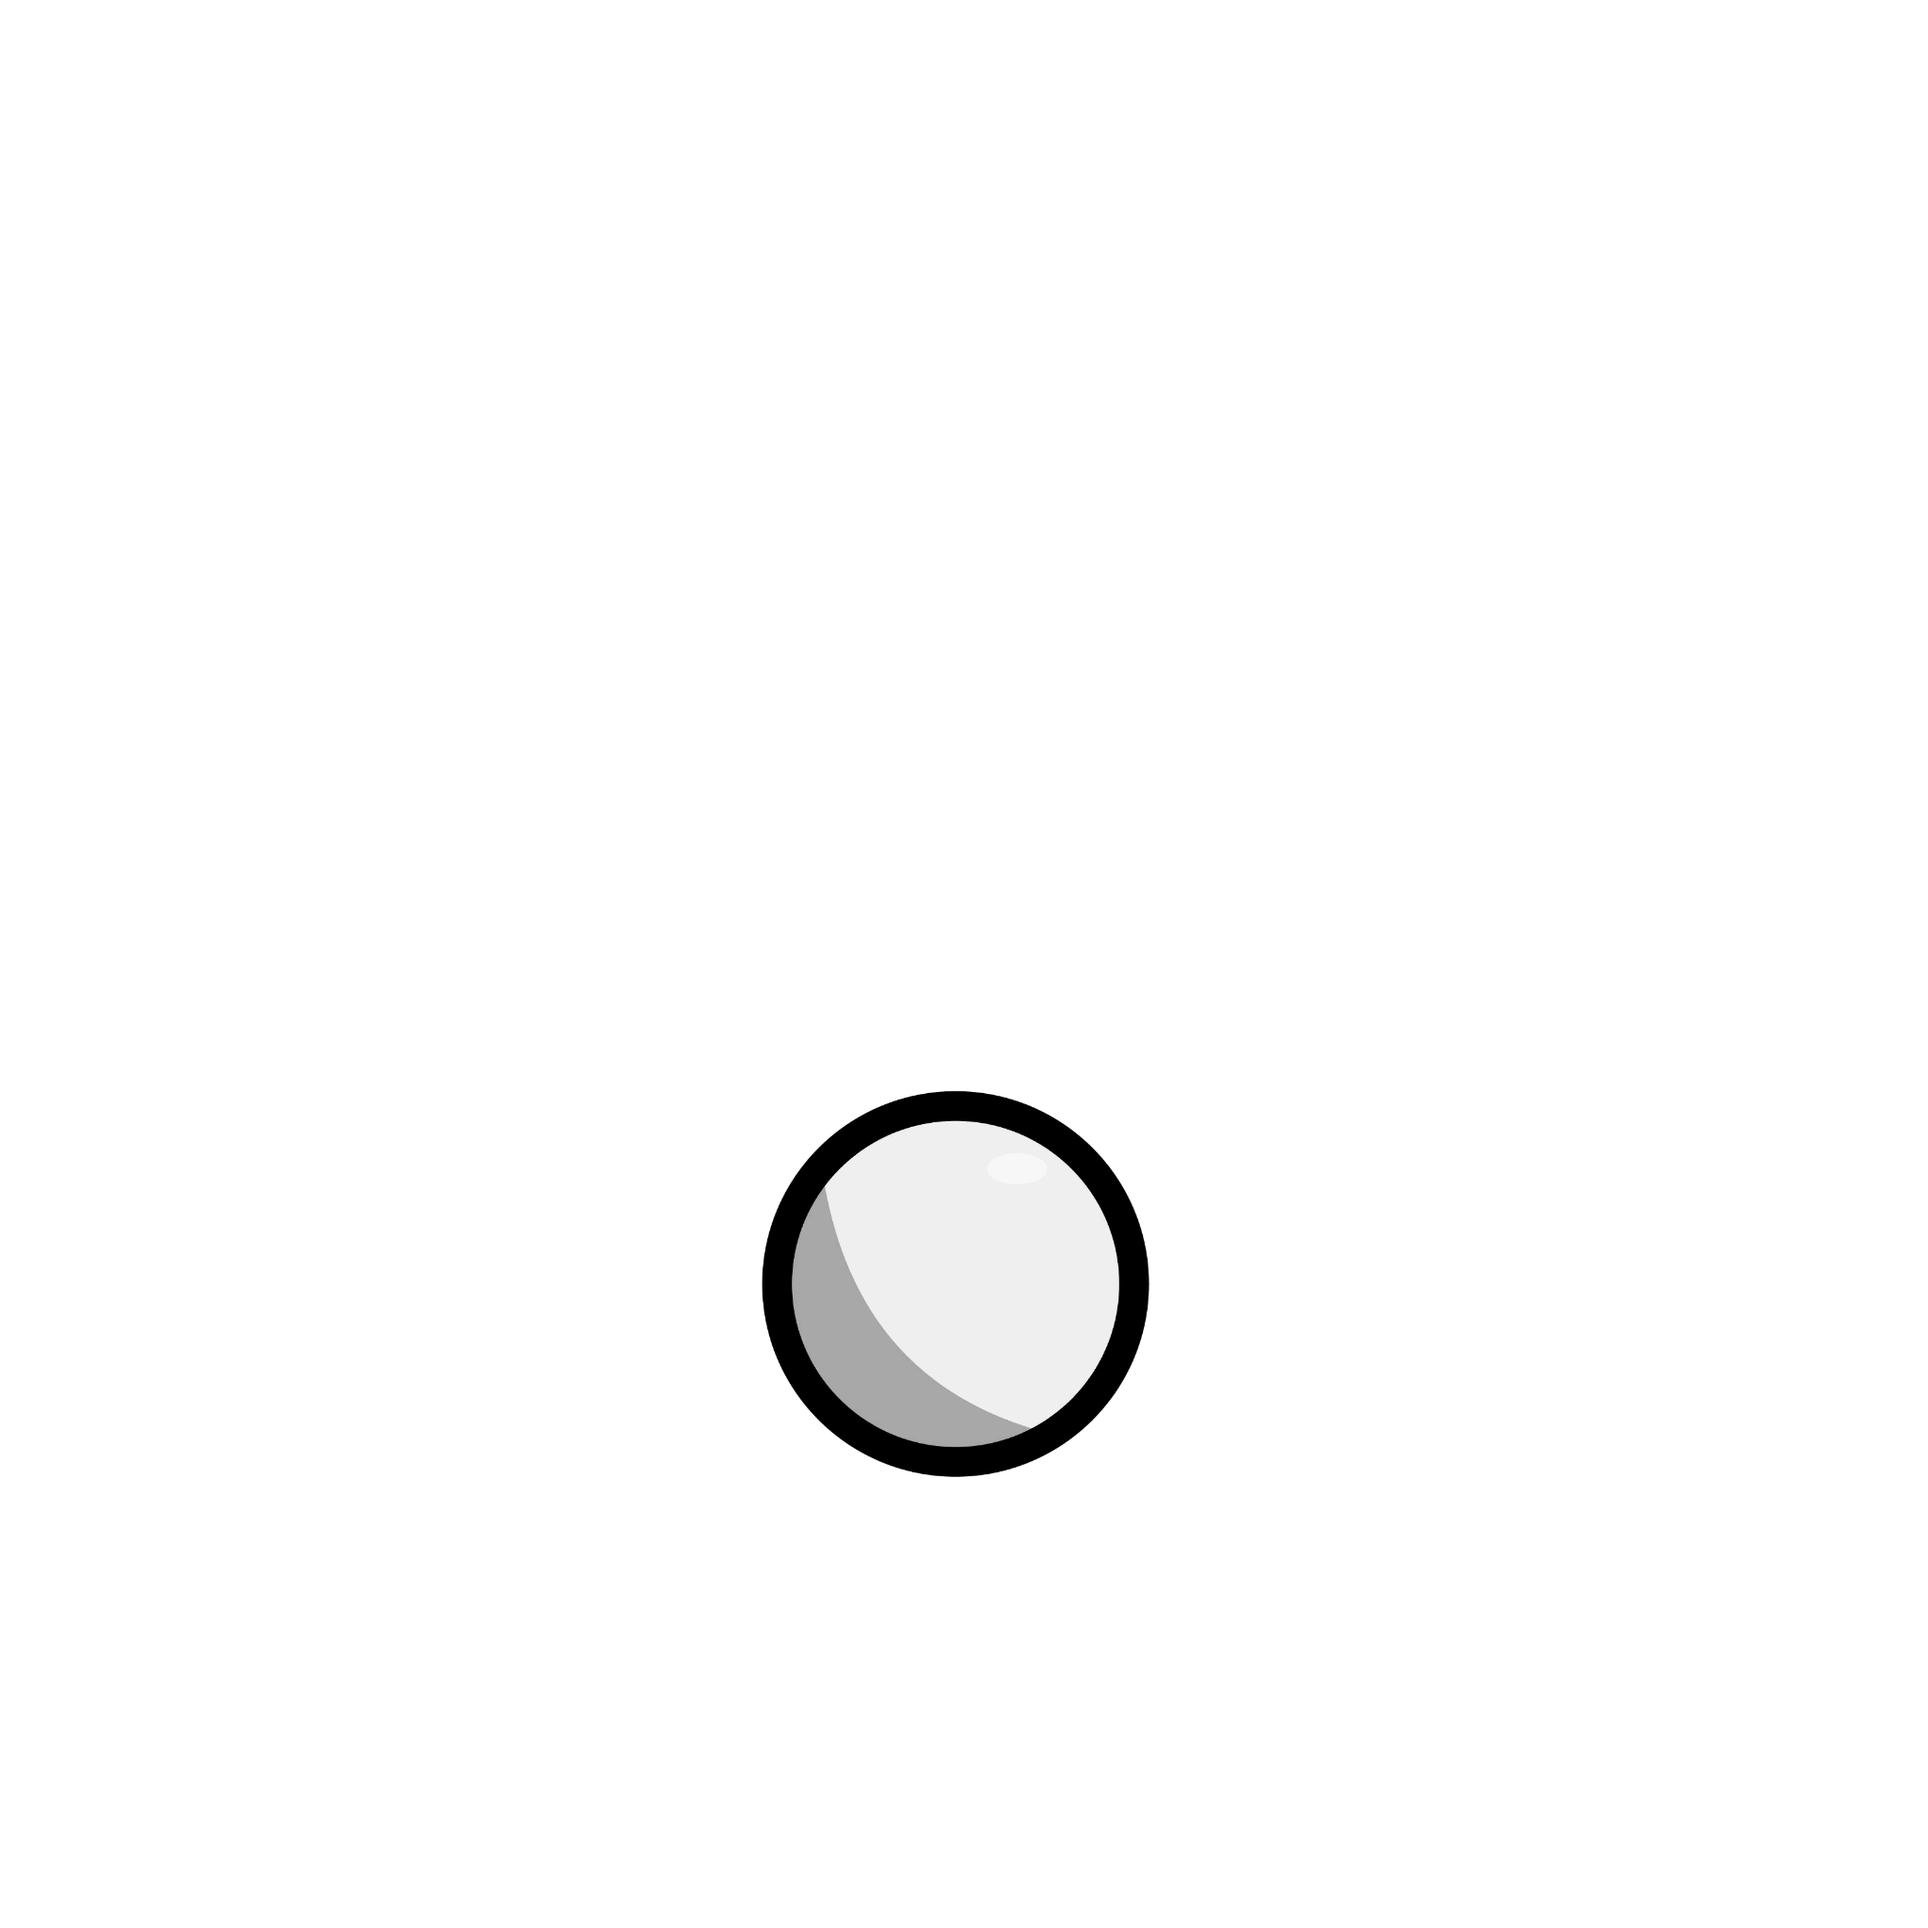
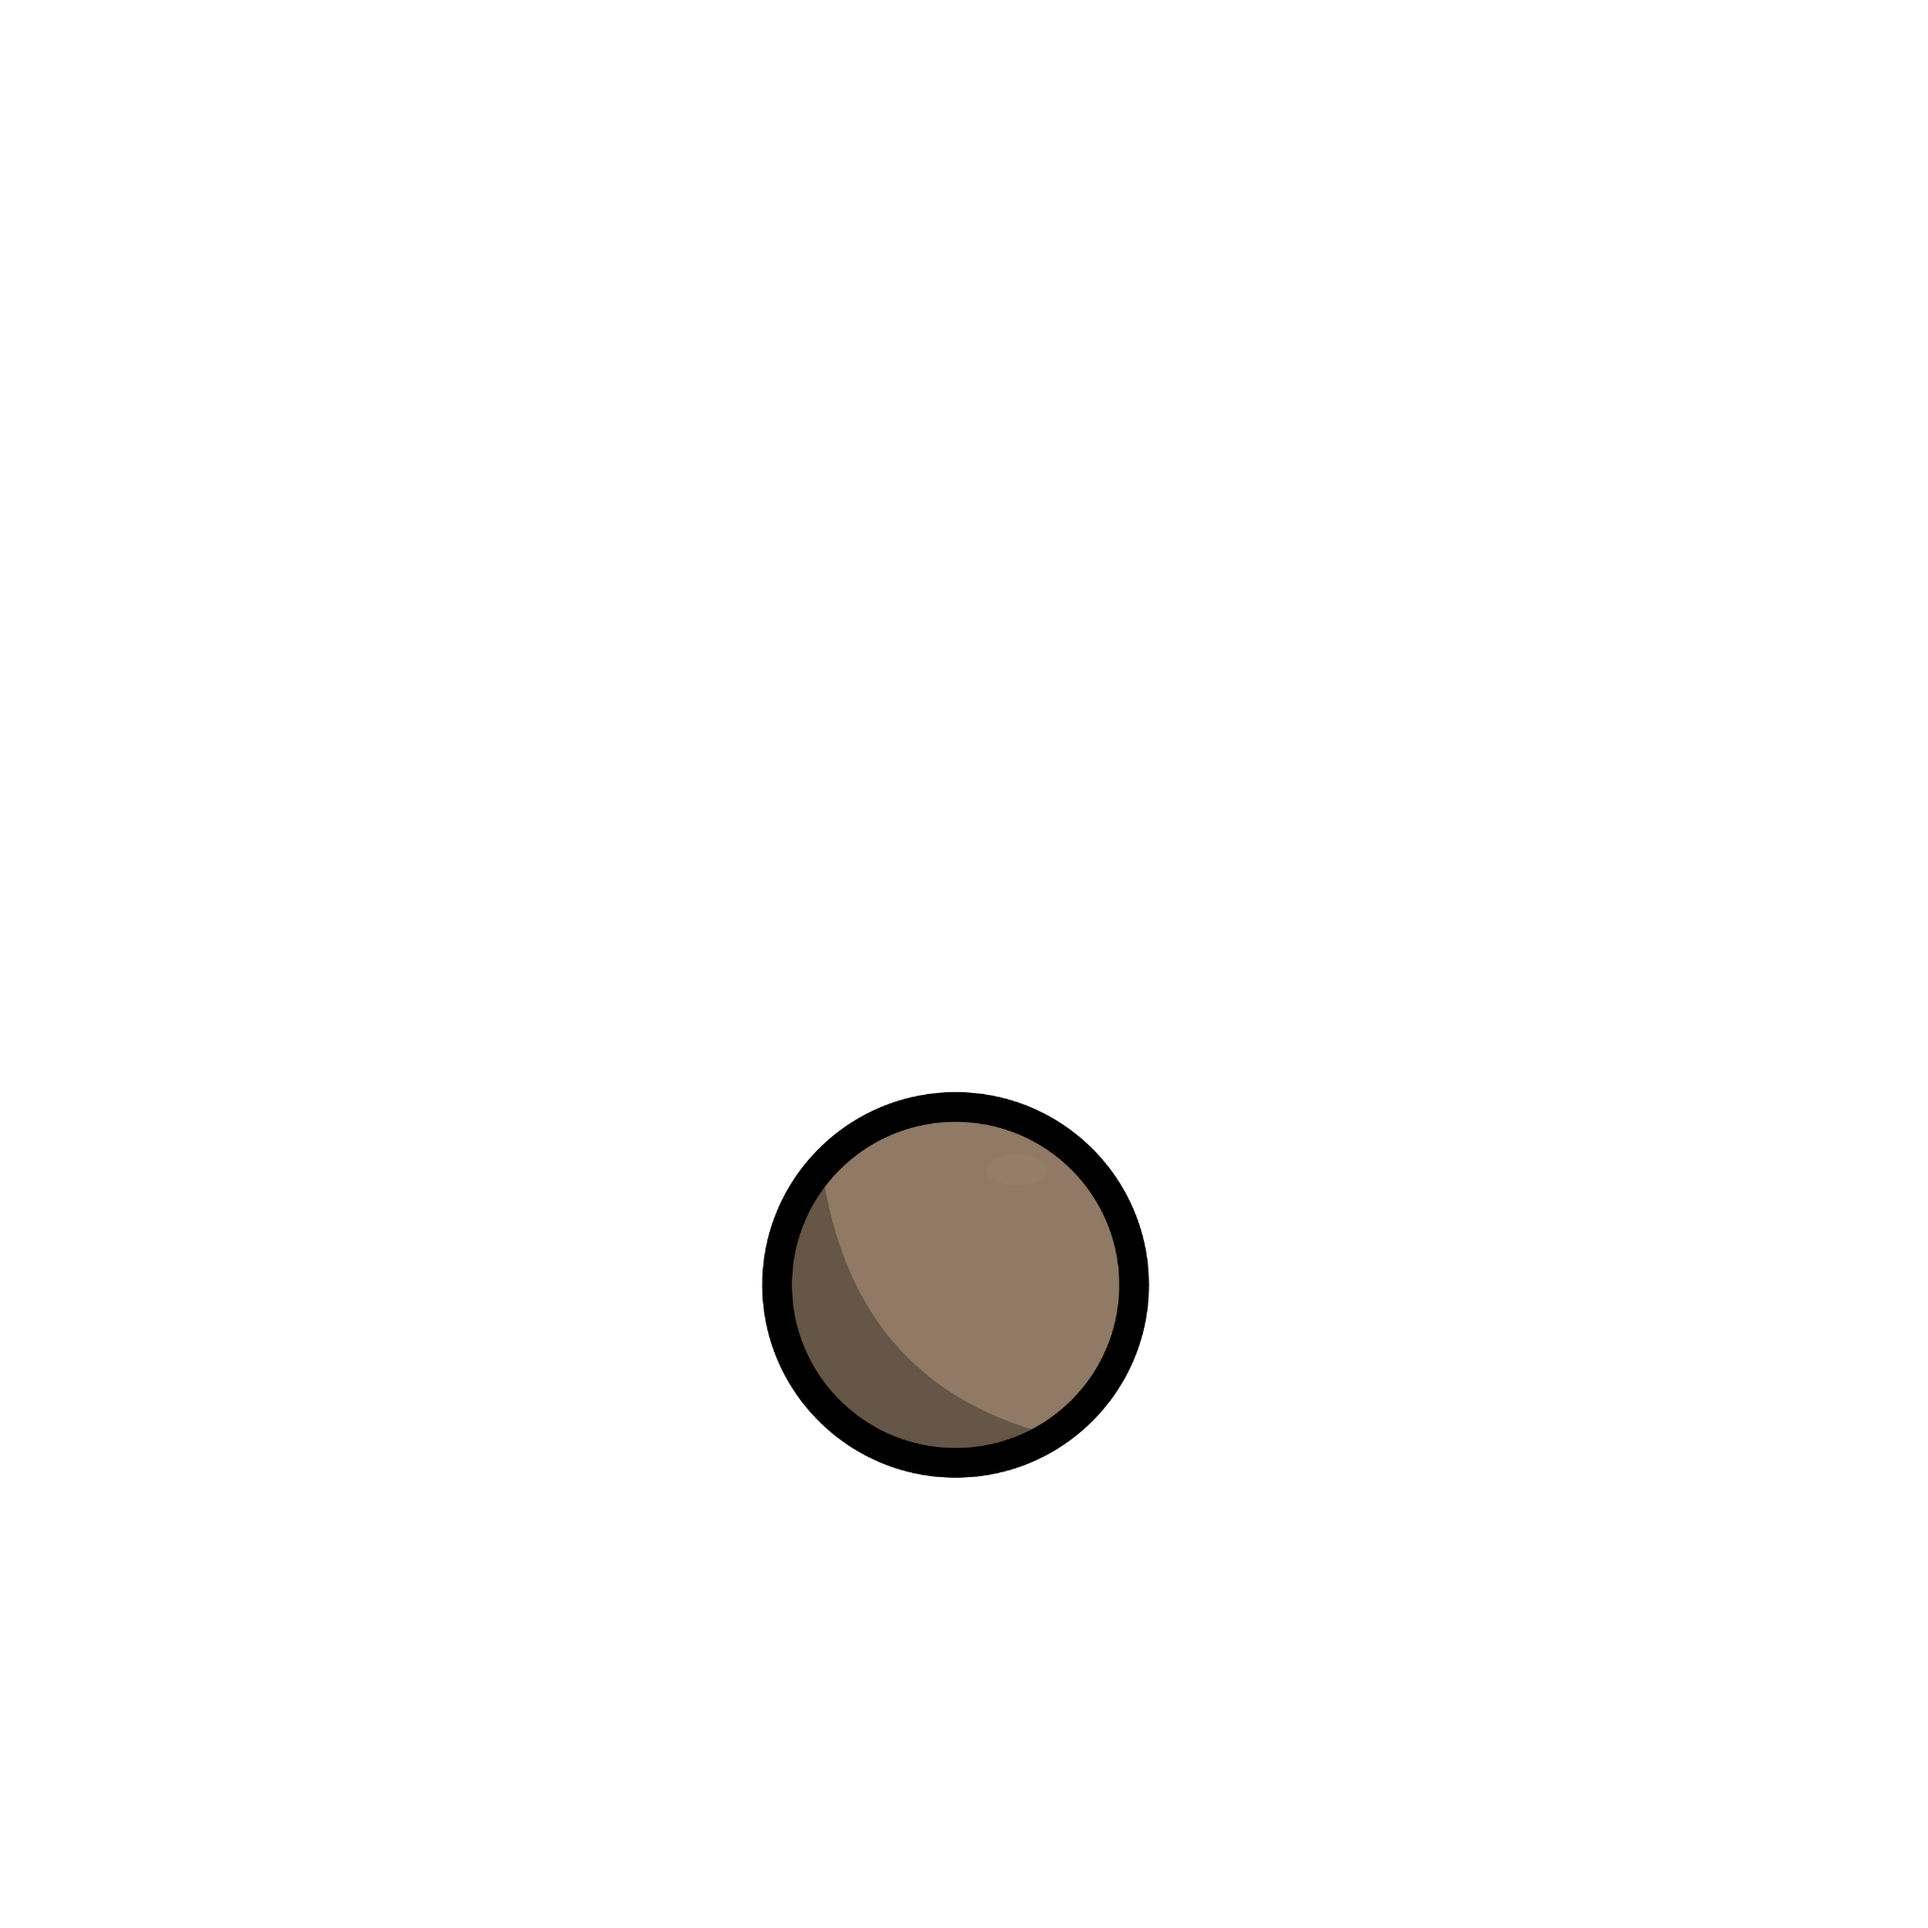
animations mostly done

Changed region(s): [[0.4062, 0.5625, 0.5938, 0.75]]

diff --git a/src/pixels.c b/src/pixels.c
@@ -6,7 +6,7 @@
 /*   By: aklein <aklein@student.hive.fi>            +#+  +:+       +#+        */
 /*                                                +#+#+#+#+#+   +#+           */
 /*   Created: 2024/02/13 00:16:36 by aklein            #+#    #+#             */
-/*   Updated: 2024/02/13 21:13:18 by aklein           ###   ########.fr       */
+/*   Updated: 2024/02/13 22:54:53 by aklein           ###   ########.fr       */
 /*                                                                            */
 /* ************************************************************************** */
 
@@ -70,43 +70,27 @@ void	get_mirrored(mlx_image_t *dst, mlx_image_t *src)
 	}
 }
 
-//
-t_list	*get_recolor_list(void)
+void	color_from_src(mlx_image_t *dst, mlx_image_t *src)
 {
-	t_recolor	*recolor;
-	t_list		*recolors;
+	uint32_t	i;
+	uint32_t	j;
+	uint32_t	color;
+	uint32_t	dest_color;
 
-	recolors = NULL;
-	recolor = ft_calloc(1, sizeof(t_recolor));
-	recolor->remove = 0xEFEEEFFF;
-	recolor->replace = 0x5C62E6FF;
-	ft_lstadd_back(&recolors, ft_lstnew(recolor));
-	recolor = ft_calloc(1, sizeof(t_recolor));
-	recolor->remove = 0xA7A8A7FF;
-	recolor->replace = 0x4045A0FF;
-	ft_lstadd_back(&recolors, ft_lstnew(recolor));
-	recolor = ft_calloc(1, sizeof(t_recolor));
-	recolor->remove = 0x00FF00FF;
-	recolor->replace = 0x00000000;
-	ft_lstadd_back(&recolors, ft_lstnew(recolor));
-	return (recolors);
-}
-
-
-uint32_t	check_recolor(uint32_t color)
-{
-	t_recolor	*recolor;
-	t_list		*swaps;
-
-	swaps = get_recolor_list();
-	while (swaps)
+	i = 0;
+	while (i < src->width)
 	{
-		recolor = (t_recolor *)swaps->content;
-		if (color == recolor->remove)
-			return (recolor->replace);
-		swaps = swaps->next;
+		j = 0;
+		while (j < src->height)
+		{
+			color = get_pixel_color(src, i, j);
+			dest_color = get_pixel_color(dst, i, j);
+			if (valid_pixel_spot(dst, i, j) && not_transparent(dest_color))
+				mlx_put_pixel(dst, i, j, color);
+			j++;
+		}
+		i++;
 	}
-	return (color);
 }
 
 void	img_to_img(mlx_image_t *dst, mlx_image_t *src, int x, int y)
@@ -122,7 +106,6 @@ void	img_to_img(mlx_image_t *dst, mlx_image_t *src, int x, int y)
 		while (j < src->height)
 		{
 			color = get_pixel_color(src, i, j);
-			color = check_recolor(color);
 			if (valid_pixel_spot(dst, x + i, y + j) && not_transparent(color))
 				mlx_put_pixel(dst, x + i, y + j, color);
 			j++;

diff --git a/src/anim_load.c b/src/anim_load.c
@@ -6,7 +6,7 @@
 /*   By: aklein <aklein@student.hive.fi>            +#+  +:+       +#+        */
 /*                                                +#+#+#+#+#+   +#+           */
 /*   Created: 2024/02/12 23:43:05 by aklein            #+#    #+#             */
-/*   Updated: 2024/02/13 19:51:07 by aklein           ###   ########.fr       */
+/*   Updated: 2024/02/13 22:57:12 by aklein           ###   ########.fr       */
 /*                                                                            */
 /* ************************************************************************** */
 
@@ -123,6 +123,24 @@ void	add_to_anim_frames(t_list *dest, t_list *src)
 		src = src->next;
 	}
 }
+//void (*f)(void *)
+void	color_anim(t_list *dest, t_list *src)
+{
+	mlx_image_t	*destination;
+	mlx_image_t	*source;
+
+	if (ft_lstsize(dest) != ft_lstsize(src))
+		return ;
+	while (dest)
+	{
+		destination = (mlx_image_t *)dest->content;
+		source = (mlx_image_t *)src->content;
+		color_from_src(destination, source);
+		dest = dest->next;
+		src = src->next;
+	}
+	
+}
 
 void	load_char_up(t_game *game)
 {
@@ -136,8 +154,9 @@ void	load_char_up(t_game *game)
 	game->char_up = load_animation(game, walk);
 	game->head = load_animation(game, head);
 	game->hair = load_animation(game, hair);
+	color_anim(game->hair->frames, game->char_up->frames);
 	add_to_anim_frames(game->char_up->frames, game->head->frames);
-	add_to_anim_frames(game->char_up->frames, game->hair->frames);
+	add_to_anim_frames(game->char_up->frames, game->hair->frames); 
 }
 
 void	get_animations(t_game *game)
@@ -146,7 +165,7 @@ void	get_animations(t_game *game)
 	t_sprite	char_walk;
 	t_sprite	char_roll;
 
-	char_idle = new_sprite("./assets/full/idle_", 6, 120, 0);
+	char_idle = new_sprite("./assets/full/idle_", 6, 140, 0);
 	game->char_idle = load_animation(game, char_idle);
 	char_walk = new_sprite("./assets/full/walk_", 8, 100, 0);
 	game->char_right = load_animation(game, char_walk);

diff --git a/main.c b/main.c
@@ -6,17 +6,11 @@
 /*   By: aklein <aklein@student.hive.fi>            +#+  +:+       +#+        */
 /*                                                +#+#+#+#+#+   +#+           */
 /*   Created: 2024/02/12 21:19:08 by aklein            #+#    #+#             */
-/*   Updated: 2024/02/13 21:07:22 by aklein           ###   ########.fr       */
+/*   Updated: 2024/02/13 23:11:17 by aklein           ###   ########.fr       */
 /*                                                                            */
 /* ************************************************************************** */
 
 #include <so_long.h>
-
-#define WIDTH 1280
-#define HEIGHT 1024
-
-#define	CHAR_SIZE 512
-#define TILE_SIZE 384
 
 void	iterate_frames(t_list *lst, int x, int y)
 {
@@ -113,13 +107,19 @@ void	character_move(void *my_game)
 	if (game->char_roll_right->is_active)
 	{
 		animate_character(game->char_roll_right, game->mlx->delta_time);
-		move_right(game);
+		if (mlx_is_key_down(game->mlx, MLX_KEY_S))
+			move_down(game);
+		else
+			move_right(game);
 		return ;
 	}
 	if (game->char_roll_left->is_active)
 	{
 		animate_character(game->char_roll_left, game->mlx->delta_time);
-		move_left(game);
+		if (mlx_is_key_down(game->mlx, MLX_KEY_W))
+			move_up(game);
+		else
+			move_left(game);
 		return ;
 	}
 	else if (mlx_is_key_down(game->mlx, MLX_KEY_D))
@@ -140,11 +140,15 @@ void	character_move(void *my_game)
 	{
 		toggle_states(game, game->char_down);
 		move_down(game);
+		if (mlx_is_key_down(game->mlx, MLX_KEY_SPACE))
+			toggle_states(game, game->char_roll_right);
 	}
 	else if (mlx_is_key_down(game->mlx, MLX_KEY_W))
 	{
 		toggle_states(game, game->char_up);
-		//move_up(game);
+		move_up(game);
+		if (mlx_is_key_down(game->mlx, MLX_KEY_SPACE))
+			toggle_states(game, game->char_roll_left);
 	}
 	else
 		toggle_states(game, game->char_idle);

diff --git a/include/so_long.h b/include/so_long.h
@@ -6,7 +6,7 @@
 /*   By: aklein <aklein@student.hive.fi>            +#+  +:+       +#+        */
 /*                                                +#+#+#+#+#+   +#+           */
 /*   Created: 2024/02/11 18:38:13 by aklein            #+#    #+#             */
-/*   Updated: 2024/02/13 19:50:32 by aklein           ###   ########.fr       */
+/*   Updated: 2024/02/13 23:09:49 by aklein           ###   ########.fr       */
 /*                                                                            */
 /* ************************************************************************** */
 
@@ -19,7 +19,14 @@
 #include <stdio.h>
 #include <unistd.h>
 
-#define BPP sizeof(int32_t)
+# define WIDTH 1280
+# define HEIGHT 1024
+
+# define CHAR_SIZE 512
+# define TILE_SIZE 384
+
+# define BPP sizeof(int32_t)
+# define SPEED 10;
 
 typedef struct s_anim
 {
@@ -30,6 +37,7 @@ typedef struct s_anim
 	long int	frame_count;
 	bool		is_active;
 	bool		one_cycle;
+	bool		going_up;
 }				t_anim;
 
 typedef struct s_game
@@ -74,6 +82,7 @@ t_list	*ft_lstget(t_list *l, int n);
 int32_t	get_pixel_color(mlx_image_t *img, uint32_t x, uint32_t y);
 void	get_mirrored(mlx_image_t *dst, mlx_image_t *src);
 void	img_to_img(mlx_image_t *dst, mlx_image_t *src, int x, int y);
+void	color_from_src(mlx_image_t *dst, mlx_image_t *src);
 
 //img moves
 void	image_right(void *image);

diff --git a/src/img_moves.c b/src/img_moves.c
@@ -6,7 +6,7 @@
 /*   By: aklein <aklein@student.hive.fi>            +#+  +:+       +#+        */
 /*                                                +#+#+#+#+#+   +#+           */
 /*   Created: 2024/02/13 18:54:18 by aklein            #+#    #+#             */
-/*   Updated: 2024/02/13 18:54:27 by aklein           ###   ########.fr       */
+/*   Updated: 2024/02/13 22:57:55 by aklein           ###   ########.fr       */
 /*                                                                            */
 /* ************************************************************************** */
 
@@ -17,7 +17,7 @@ void	image_right(void *image)
 	mlx_image_t *img;
 
 	img = (mlx_image_t *)image;
-	img->instances[0].x += 7;
+	img->instances[0].x += SPEED;
 }
 
 void	image_left(void *image)
@@ -25,7 +25,7 @@ void	image_left(void *image)
 	mlx_image_t *img;
 
 	img = (mlx_image_t *)image;
-	img->instances[0].x -= 7; 
+	img->instances[0].x -= SPEED; 
 }
 
 void	image_down(void *image)
@@ -33,7 +33,7 @@ void	image_down(void *image)
 	mlx_image_t *img;
 
 	img = (mlx_image_t *)image;
-	img->instances[0].y += 7; 
+	img->instances[0].y += SPEED; 
 }
 
 void	image_up(void *image)
@@ -41,5 +41,5 @@ void	image_up(void *image)
 	mlx_image_t *img;
 
 	img = (mlx_image_t *)image;
-	img->instances[0].y -= 7; 
+	img->instances[0].y -= SPEED; 
 }
